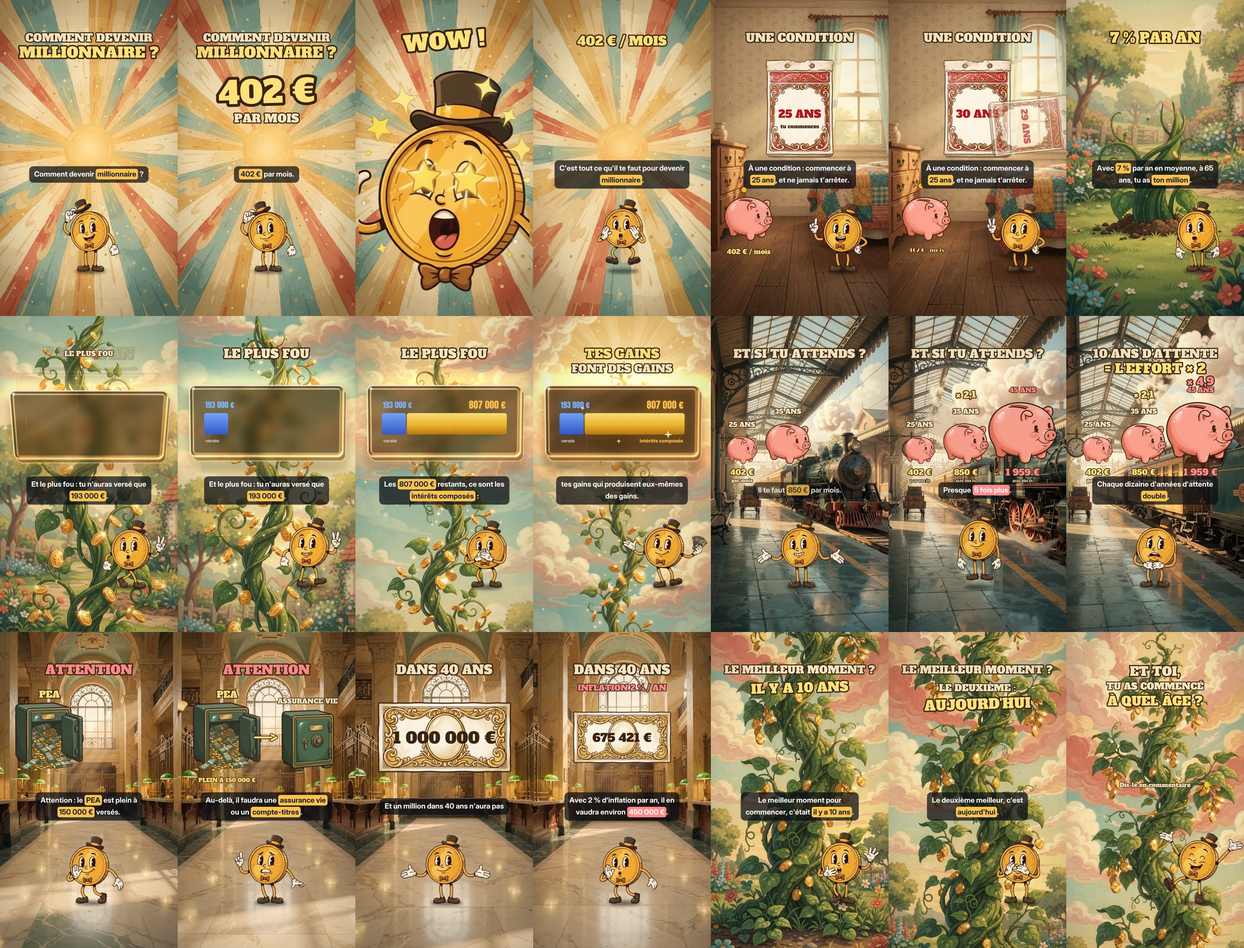
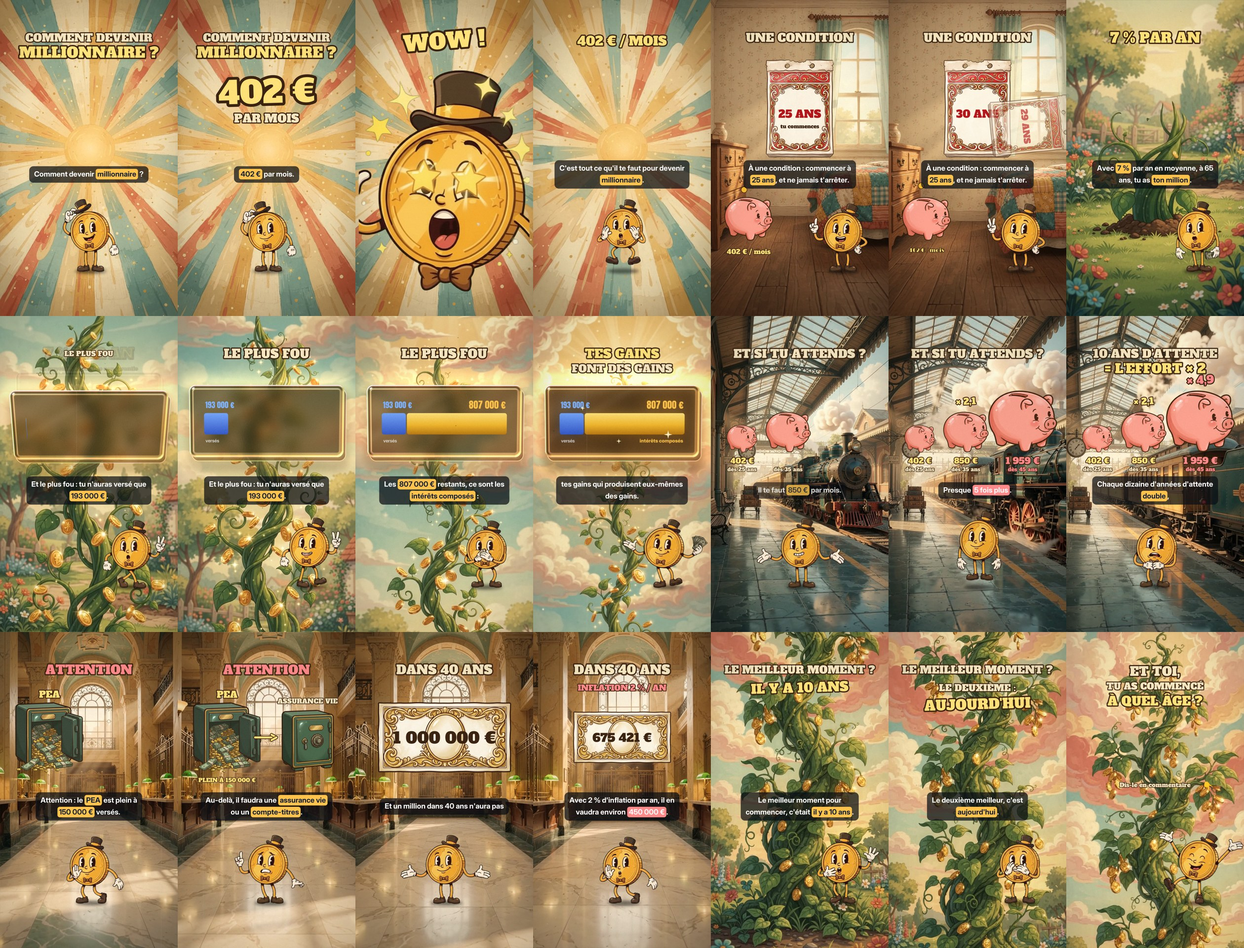
14/11 millionnaire : maquettes corrigées (gare, close-up, libellés)
Claude-Session: https://claude.ai/code/session_01VFT2ZKYV9NwmFvCsfcTKi7

Changed region(s): [[0.7119, 0.375, 1.0, 0.5], [0.5881, 0.4062, 0.65, 0.5]]

diff --git a/episodes/2026-11-14_millionnaire/video_col.py b/episodes/2026-11-14_millionnaire/video_col.py
@@ -312,13 +312,12 @@ def b_gare(cv, c, t, k):
     xs = (190, 470, 815); hs = (170, 250, 380)
     for i, (age, m, ta, tb) in enumerate(((25, 402, tm(24.55), tm(24.6)), (35, 850, tm(24.9), tm(26.6)), (45, 1959, tm(30.05), tm(31.05)))):
         if t < ta: continue
-        x = xs[i]; base = 900
-        paint(c, f"{age} ANS", x, base-hs[i]-70, 40, CREAM if i < 2 else PINK, a=ent(t-ta, .3), fam='Alfa Slab One')
+        x = xs[i]; base = 830
         prop(c, 'tirelire', x, base-hs[i]/2, h=hs[i], k=t-ta)
-        if t > tb: pop_text(c, euro(m), x, base+50, 46 if i < 2 else 54, t, tb, YEL if i < 2 else PINK)
-        if t > tb+.15: paint(c, "par mois", x, base+100, 28, a=ent(t-tb-.15, .3))
-    if t > tm(28.55): pop_text(c, "× 2,1", 470, 480, 54, t, tm(28.6), YEL, rot=-.06)
-    if t > tm(33.4): pop_text(c, "× 4,9", 815, 400, 66, t, tm(33.45), PINK, rot=-.06)
+        if t > tb: pop_text(c, euro(m) if i < 2 else euro(m), x, base+50, 46 if i < 2 else 54, t, tb, YEL if i < 2 else PINK)
+        if t > ta+.2: paint(c, f"dès {age} ans", x, base+102, 32, CREAM if i < 2 else PINK, a=ent(t-ta-.2, .3))
+    if t > tm(28.55): pop_text(c, "× 2,1", 470, 520, 54, t, tm(28.6), YEL, rot=-.06)
+    if t > tm(33.4): pop_text(c, "× 4,9", 815, 390, 66, t, tm(33.45), PINK, rot=-.06)
     if t > tm(35.0):
         title(c, "10 ANS D'ATTENTE", t, tm(35.05), 230, 70)
         title(c, "= L'EFFORT × 2", t, tm(36.6), 320, 70, YEL)
